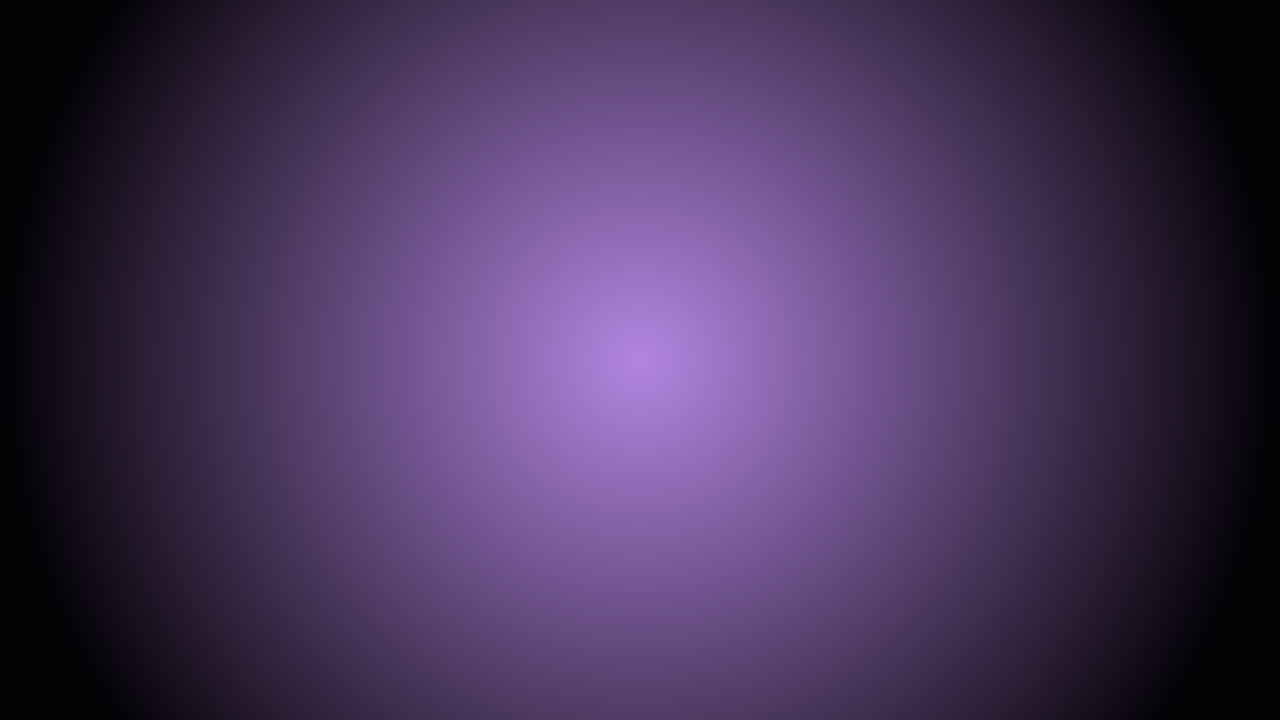
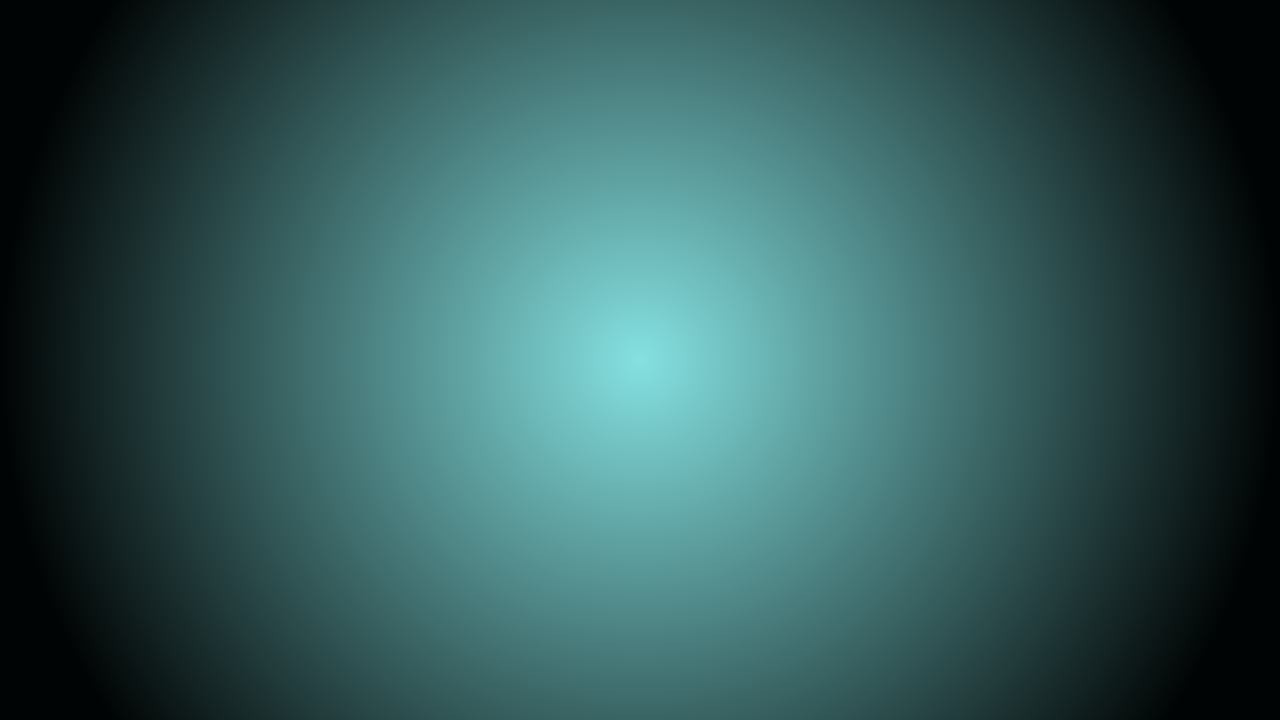
[feat] gradiention[56].png, plasma_blur* 追加

diff --git a/lib/bioshogi/image_renderer/color_theme_info.rb b/lib/bioshogi/image_renderer/color_theme_info.rb
@@ -21,11 +21,22 @@ module Bioshogi
         { key: :color_theme_is_gradiention2,            func: -> e { e.color_theme_is_shogi_extend.merge(bg_file: "#{__dir__}/../assets/images/background/gradiention2.png", outer_frame_fill_color: "hsla(0,0%,0%,0.22)") }, },
         { key: :color_theme_is_gradiention3,            func: -> e { e.color_theme_is_shogi_extend.merge(bg_file: "#{__dir__}/../assets/images/background/gradiention3.png", outer_frame_fill_color: "hsla(0,0%,0%,0.22)") }, },
         { key: :color_theme_is_gradiention4,            func: -> e { e.color_theme_is_shogi_extend.merge(bg_file: "#{__dir__}/../assets/images/background/gradiention4.png", outer_frame_fill_color: "hsla(0,0%,0%,0.22)") }, },
+        { key: :color_theme_is_gradiention5,            func: -> e { e.color_theme_is_shogi_extend.merge(bg_file: "#{__dir__}/../assets/images/background/gradiention5.png", outer_frame_fill_color: "hsla(0,0%,0%,0.22)") }, },
+        { key: :color_theme_is_gradiention6,            func: -> e { e.color_theme_is_shogi_extend.merge(bg_file: "#{__dir__}/../assets/images/background/gradiention6.png", outer_frame_fill_color: "hsla(0,0%,0%,0.22)") }, },
+
+        { key: :color_theme_is_plasma_blur1,            func: -> e { e.color_theme_is_shogi_extend.merge(bg_file: "#{__dir__}/../assets/images/background/plasma_blur1.png", outer_frame_fill_color: "hsla(0,0%,0%,0.22)") }, },
+        { key: :color_theme_is_plasma_blur2,            func: -> e { e.color_theme_is_shogi_extend.merge(bg_file: "#{__dir__}/../assets/images/background/plasma_blur2.png", outer_frame_fill_color: "hsla(0,0%,0%,0.22)") }, },
+        { key: :color_theme_is_plasma_blur3,            func: -> e { e.color_theme_is_shogi_extend.merge(bg_file: "#{__dir__}/../assets/images/background/plasma_blur3.png", outer_frame_fill_color: "hsla(0,0%,0%,0.22)") }, },
+        { key: :color_theme_is_plasma_blur4,            func: -> e { e.color_theme_is_shogi_extend.merge(bg_file: "#{__dir__}/../assets/images/background/plasma_blur4.png", outer_frame_fill_color: "hsla(0,0%,0%,0.22)") }, },
+        { key: :color_theme_is_plasma_blur5,            func: -> e { e.color_theme_is_shogi_extend.merge(bg_file: "#{__dir__}/../assets/images/background/plasma_blur5.png", outer_frame_fill_color: "hsla(0,0%,0%,0.22)") }, },
+        { key: :color_theme_is_plasma_blur6,            func: -> e { e.color_theme_is_shogi_extend.merge(bg_file: "#{__dir__}/../assets/images/background/plasma_blur6.png", outer_frame_fill_color: "hsla(0,0%,0%,0.22)") }, },
 
         { key: :color_theme_is_radial_gradiention1,            func: -> e { e.color_theme_is_shogi_extend.merge(bg_file: "#{__dir__}/../assets/images/background/radial_gradiention1.png", outer_frame_fill_color: "hsla(0,0%,0%,0.22)") }, },
         { key: :color_theme_is_radial_gradiention2,            func: -> e { e.color_theme_is_shogi_extend.merge(bg_file: "#{__dir__}/../assets/images/background/radial_gradiention2.png", outer_frame_fill_color: "hsla(0,0%,0%,0.22)") }, },
         { key: :color_theme_is_radial_gradiention3,            func: -> e { e.color_theme_is_shogi_extend.merge(bg_file: "#{__dir__}/../assets/images/background/radial_gradiention3.png", outer_frame_fill_color: "hsla(0,0%,0%,0.22)") }, },
         { key: :color_theme_is_radial_gradiention4,            func: -> e { e.color_theme_is_shogi_extend.merge(bg_file: "#{__dir__}/../assets/images/background/radial_gradiention4.png", outer_frame_fill_color: "hsla(0,0%,0%,0.22)") }, },
+        { key: :color_theme_is_radial_gradiention5,            func: -> e { e.color_theme_is_shogi_extend.merge(bg_file: "#{__dir__}/../assets/images/background/radial_gradiention5.png", outer_frame_fill_color: "hsla(0,0%,0%,0.22)") }, },
+        { key: :color_theme_is_radial_gradiention6,            func: -> e { e.color_theme_is_shogi_extend.merge(bg_file: "#{__dir__}/../assets/images/background/radial_gradiention6.png", outer_frame_fill_color: "hsla(0,0%,0%,0.22)") }, },
 
         { key: :color_theme_is_splatoon_red_black,      func: -> e { e.color_theme_is_shogi_extend.merge(bg_file: "#{__dir__}/../assets/images/background/splatoon_red_stripe.png",   outer_frame_fill_color: "hsla(0,0%,0%,0.22)") }, },
         { key: :color_theme_is_splatoon_green_black,    func: -> e { e.color_theme_is_shogi_extend.merge(bg_file: "#{__dir__}/../assets/images/background/splatoon_green_stripe.png", outer_frame_fill_color: "hsla(0,0%,0%,0.22)") }, },

diff --git a/experiment/image_renderer/0240_color_theme.rb b/experiment/image_renderer/0240_color_theme.rb
@@ -18,7 +18,7 @@ bg_file = nil
 #   parser.image_renderer(color_theme_key: "color_theme_is_style_editor_asahanada", renderer_override_params: {bg_file: bg_file}).display
 # end
 
-# ImageRenderer::ColorThemeInfo.each { |e| parser.image_renderer(color_theme_key: e.key).display }
+ImageRenderer::ColorThemeInfo.each { |e| parser.image_renderer(color_theme_key: e.key).display }
 
 # ImageRenderer::ColorThemeInfo.each { |e| parser.image_renderer(color_theme_key: e.key, renderer_override_params: {bg_file: bg_file}).display }
 
@@ -32,10 +32,19 @@ bg_file = nil
 # parser.image_renderer(color_theme_key: "color_theme_is_gradiention3").display
 # parser.image_renderer(color_theme_key: "color_theme_is_gradiention4").display
 
-parser.image_renderer(color_theme_key: "color_theme_is_radial_gradiention1").display
-parser.image_renderer(color_theme_key: "color_theme_is_radial_gradiention2").display
-parser.image_renderer(color_theme_key: "color_theme_is_radial_gradiention3").display
-parser.image_renderer(color_theme_key: "color_theme_is_radial_gradiention4").display
+# parser.image_renderer(color_theme_key: "color_theme_is_radial_gradiention1").display
+# parser.image_renderer(color_theme_key: "color_theme_is_radial_gradiention2").display
+# parser.image_renderer(color_theme_key: "color_theme_is_radial_gradiention3").display
+# parser.image_renderer(color_theme_key: "color_theme_is_radial_gradiention4").display
+# parser.image_renderer(color_theme_key: "color_theme_is_radial_gradiention5").display
+# parser.image_renderer(color_theme_key: "color_theme_is_radial_gradiention6").display
+
+# parser.image_renderer(color_theme_key: "color_theme_is_plasma_blur1").display
+# parser.image_renderer(color_theme_key: "color_theme_is_plasma_blur2").display
+# parser.image_renderer(color_theme_key: "color_theme_is_plasma_blur3").display
+# parser.image_renderer(color_theme_key: "color_theme_is_plasma_blur4").display
+# parser.image_renderer(color_theme_key: "color_theme_is_plasma_blur5").display
+# parser.image_renderer(color_theme_key: "color_theme_is_plasma_blur6").display
 
 # parser.image_renderer(color_theme_key: "color_theme_is_metal1").display
 
